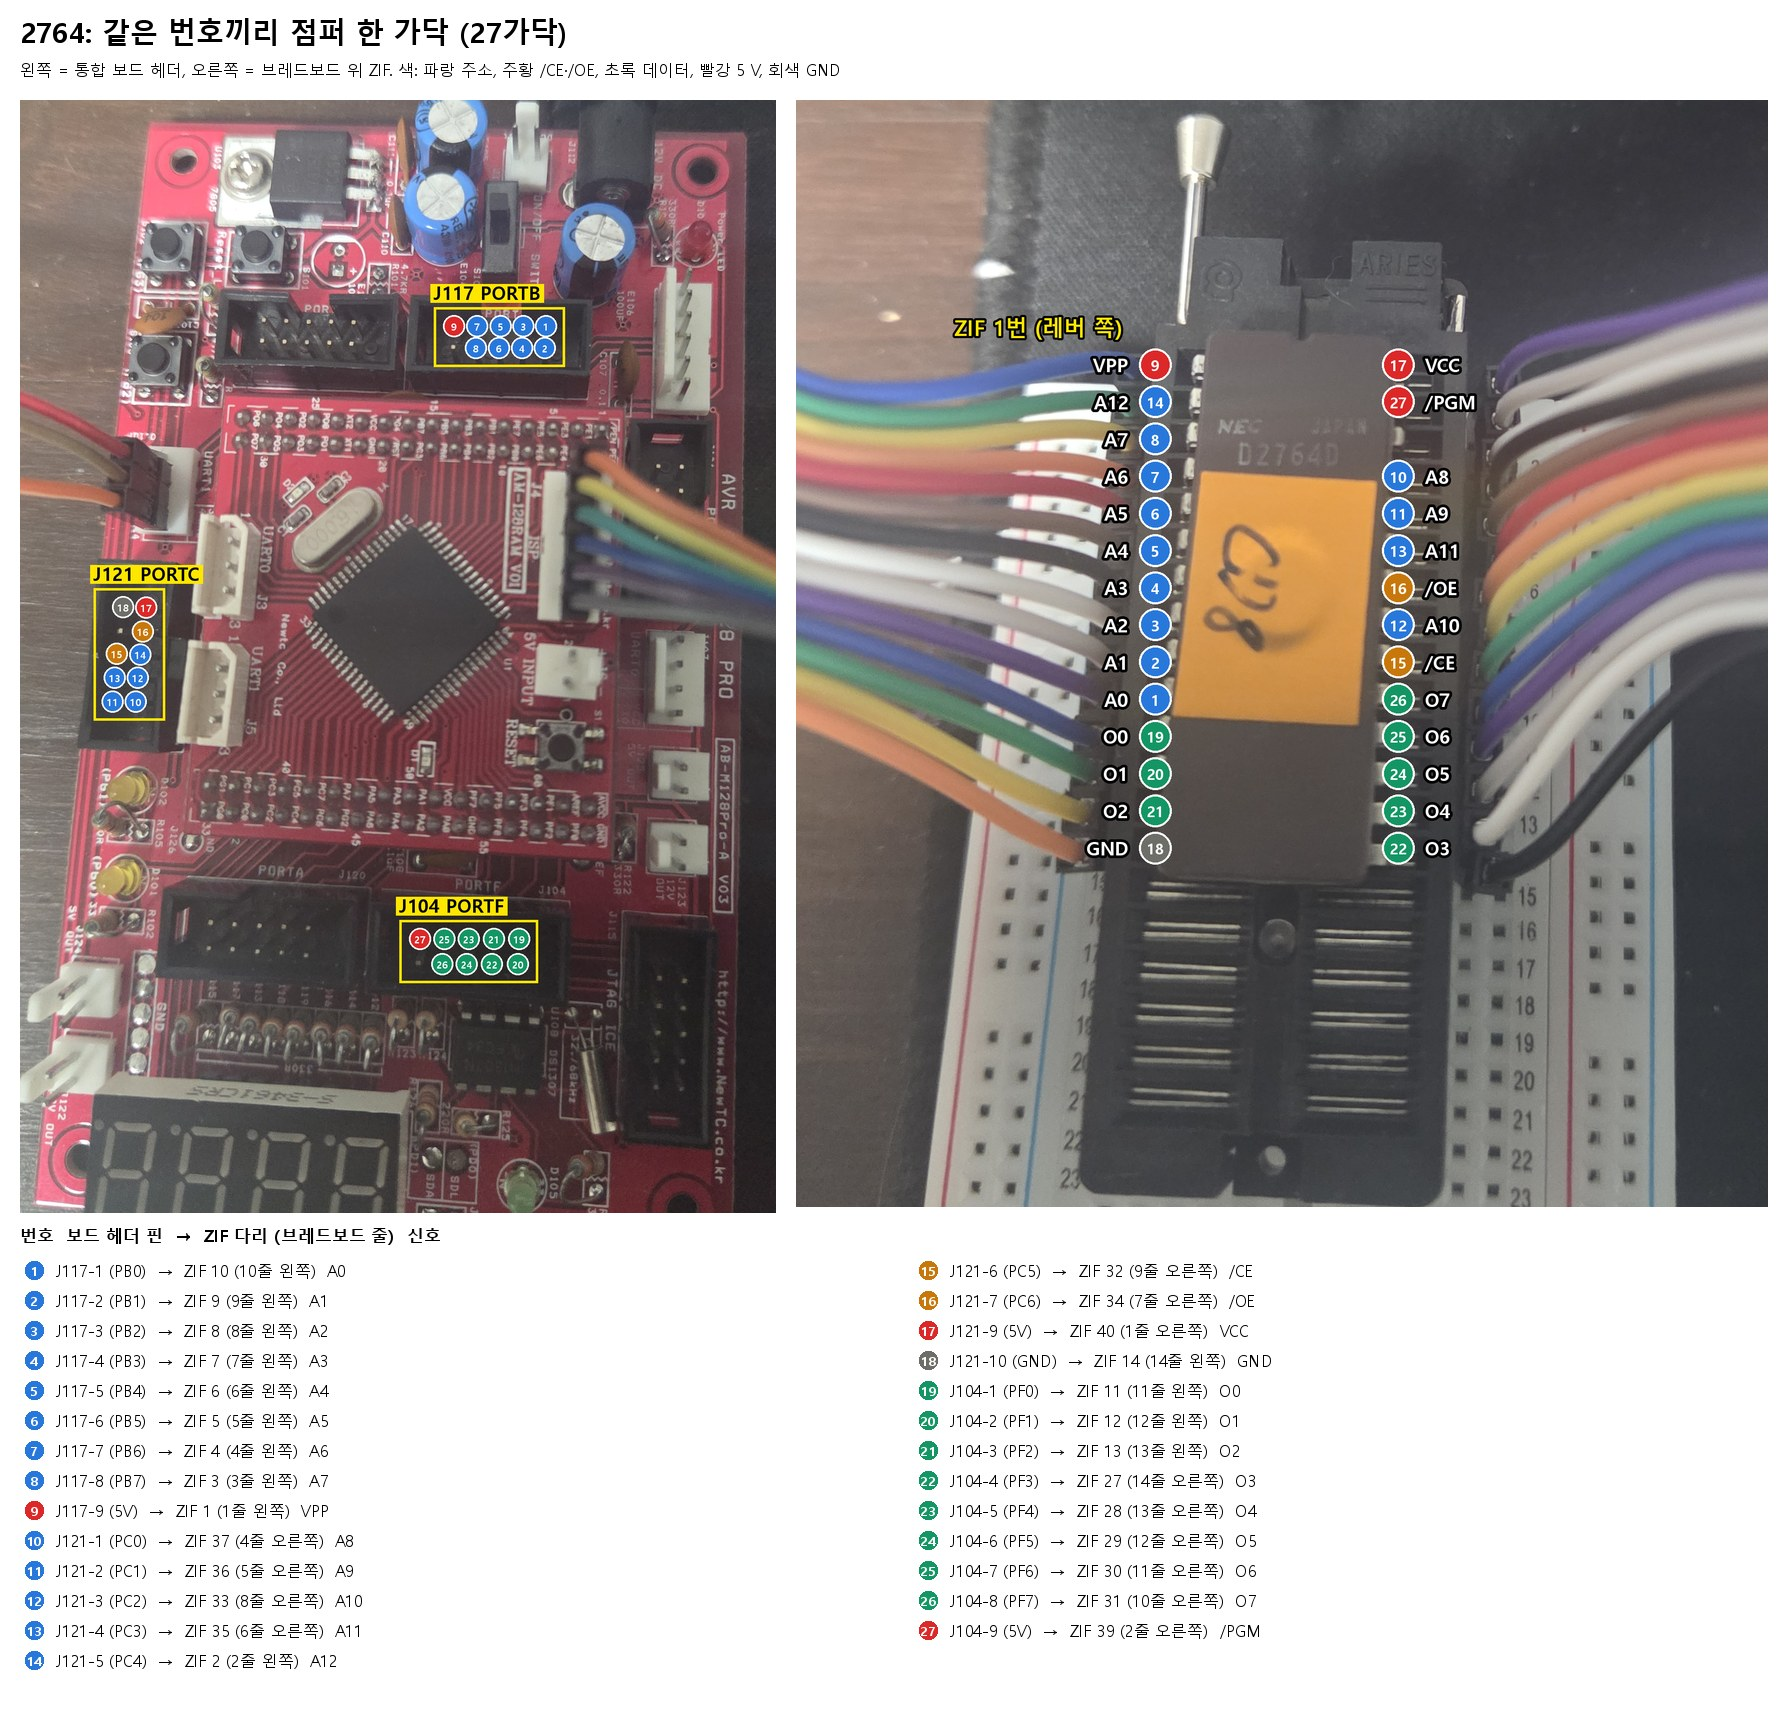
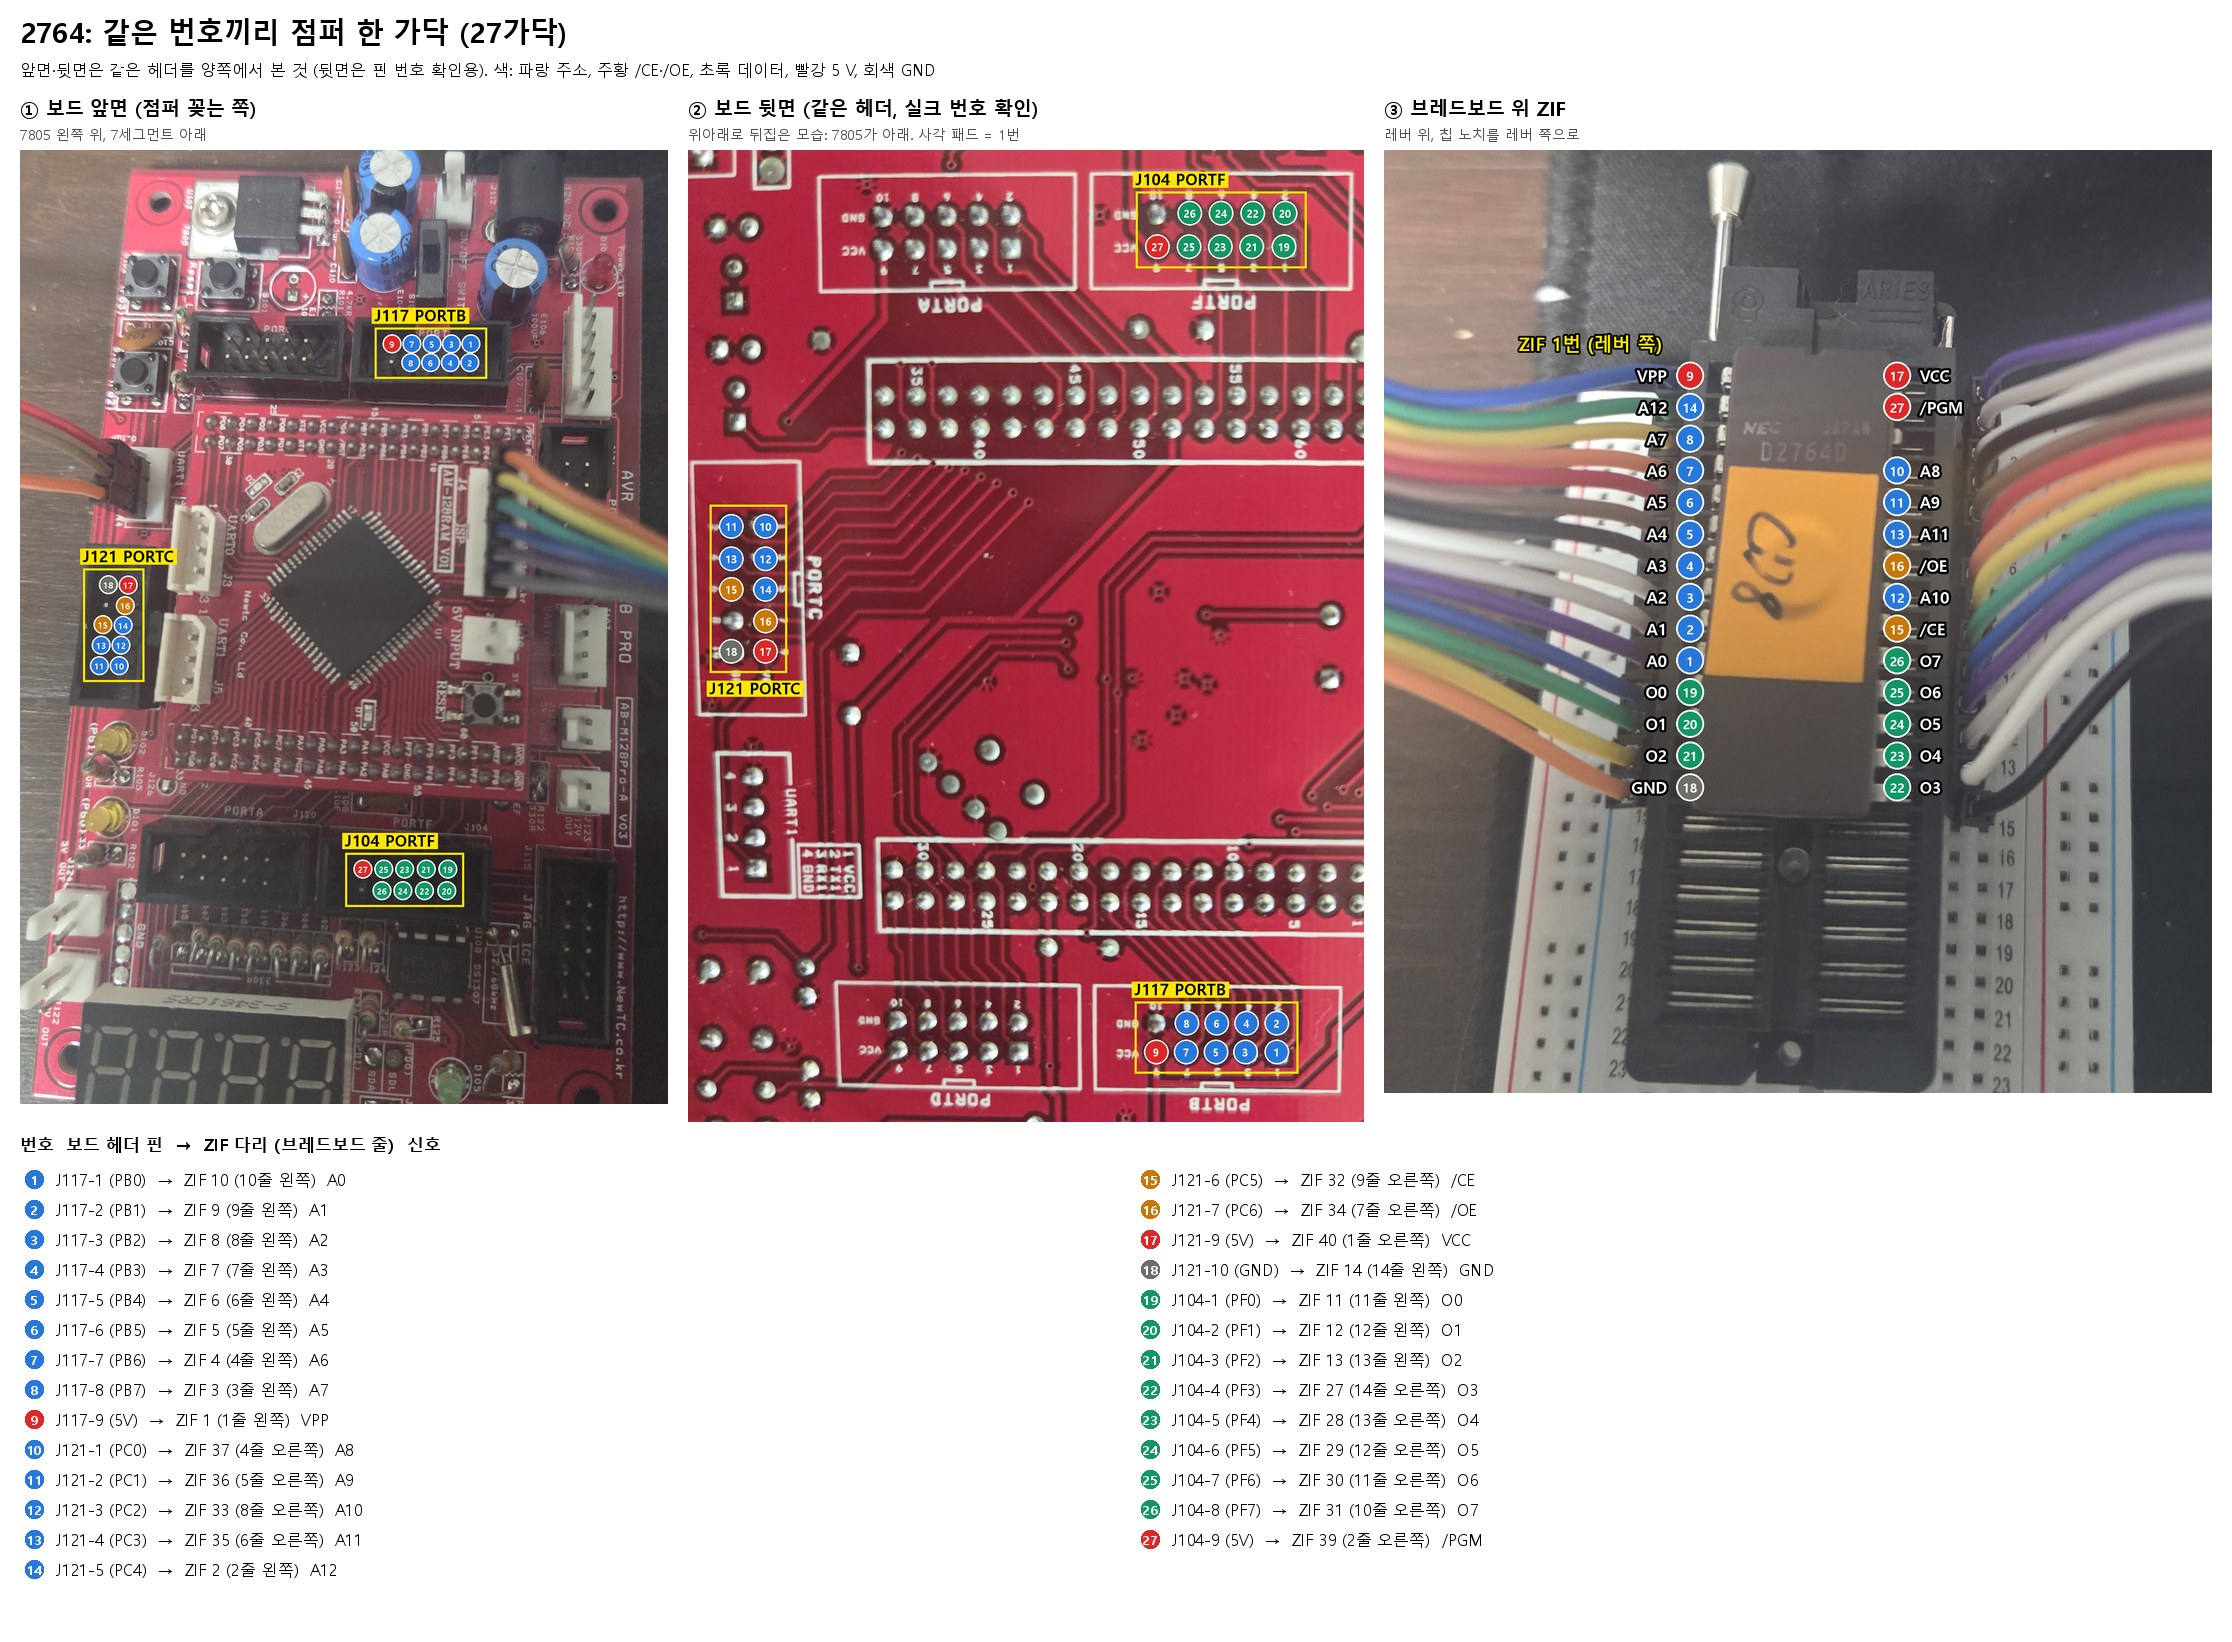
Show the board back side in the photo wiring diagrams.

diff --git a/HART/zif-wiring.html b/HART/zif-wiring.html
@@ -82,12 +82,12 @@ const W={
 ['J121',6,39,'/CE','c'],
 ['J104',1,1,'O1','d'],['J104',2,2,'O2','d'],['J104',3,3,'O3','d'],['J104',4,4,'O4','d'],['J104',5,5,'O5','d'],['J104',6,6,'O6','d'],['J104',7,7,'O7','d'],['J104',8,33,'O8','d']]}};
 const PHOTOS={
-'2764':[['wiring_photo_2764.jpg','실제 사진 결선도: 보드 헤더와 ZIF 다리에 같은 번호가 붙은 곳끼리 점퍼 한 가닥. 아래 표에 브레드보드 줄 번호도 있습니다(ZIF 1번 = 브레드보드 1번 줄).'],
+'2764':[['wiring_photo_2764.jpg','실제 사진 결선도(보드 앞면, 보드 뒷면, ZIF): 보드 헤더와 ZIF 다리에 같은 번호가 붙은 곳끼리 점퍼 한 가닥. 가운데 뒷면 사진은 같은 헤더를 납땜면에서 본 것이라 실크 핀 번호와 사각 패드(1번)로 번호를 확인할 수 있습니다. 아래 표에 브레드보드 줄 번호도 있습니다(ZIF 1번 = 브레드보드 1번 줄).'],
         ['rom_2764.jpg','U45, U46, U65, U70 위치와 1번 핀. 초록(U45, U46)은 노치 확인, 빨강(U65, U70)은 보드 규칙으로 추정이라 뽑기 전에 노치가 아래쪽인지 확인합니다.'],
         ['u45_u46_pins.jpg','U45, U46 전체 핀 번호: 앞면, 뒷면(납땜면, 좌우 반전), 뽑은 칩.']],
-'82S129':[['wiring_photo_82S129.jpg','실제 사진 결선도: 같은 번호끼리 점퍼 한 가닥. ZIF 사진의 칩은 2764라서 82S129가 들어갈 1–8줄을 점선으로 표시했습니다.'],
+'82S129':[['wiring_photo_82S129.jpg','실제 사진 결선도(보드 앞면, 보드 뒷면, ZIF): 같은 번호끼리 점퍼 한 가닥. 뒷면 사진에서 실크 핀 번호를 확인할 수 있습니다. ZIF 사진의 칩은 2764라서 82S129가 들어갈 1–8줄을 점선으로 표시했습니다.'],
           ['rom_82S129.jpg','U17, U18, U36, U38, U50, U51 위치와 1번 핀. 보드 규칙으로 추정이라 뽑기 전에 노치가 아래쪽인지 확인합니다. U17은 PROM인지 먼저 확인합니다.']],
-'82S123':[['wiring_photo_82S123.jpg','실제 사진 결선도: 같은 번호끼리 점퍼 한 가닥. ZIF 사진의 칩은 2764라서 82S123이 들어갈 1–8줄을 점선으로 표시했습니다.'],
+'82S123':[['wiring_photo_82S123.jpg','실제 사진 결선도(보드 앞면, 보드 뒷면, ZIF): 같은 번호끼리 점퍼 한 가닥. 뒷면 사진에서 실크 핀 번호를 확인할 수 있습니다. ZIF 사진의 칩은 2764라서 82S123이 들어갈 1–8줄을 점선으로 표시했습니다.'],
           ['rom_82S123.jpg','U5 위치와 1번 핀. 보드 규칙으로 추정이라 뽑기 전에 노치가 아래쪽인지 확인합니다.']]};
 function showPhotos(chip){
   const box=document.getElementById('photos');box.innerHTML='';

diff --git a/HART/tools/make_wiring_photos.py b/HART/tools/make_wiring_photos.py
@@ -3,7 +3,8 @@
 사용 (ROMReader 저장소 루트에서):
     python HART/tools/make_wiring_photos.py HART
 
-입력: photo/20261121_222148.jpg (결합 보드), photo/20261121_222138.jpg (브레드보드 위 ZIF + 2764)
+입력: photo/20261121_222148.jpg (결합 보드 앞면), photo/20261121_113651.jpg (베이스 뒷면),
+      photo/20261121_222138.jpg (브레드보드 위 ZIF + 2764)
 출력: HART/wiring_photo_2764.jpg, wiring_photo_82S129.jpg, wiring_photo_82S123.jpg
 
 같은 번호 배지끼리 점퍼 한 가닥으로 잇습니다. 헤더 핀 위치는 README 2.1절 방향(사진 판독)으로,
@@ -64,6 +65,21 @@ HDR = {
                                 2: (385, 267), 4: (323, 267), 6: (263, 267), 8: (205, 267), 10: (148, 267)}),
 }
 
+# 뒷면 사진(photo/20261121_113651.jpg, 보드를 위아래로 뒤집어 7805가 아래) 헤더 핀 좌표.
+# 실크 번호와 사각 패드(1번)에서 직접 읽음. 앞면과 위아래만 바뀌고 좌우는 같음.
+BHDR = {
+    # PORTB: 아래 줄 오른쪽→왼쪽 1,3,5,7,9 / 위 줄 2,4,6,8,10
+    "J117": {1: (1657, 2885), 3: (1570, 2885), 5: (1488, 2885), 7: (1405, 2885), 9: (1322, 2885),
+             2: (1657, 2805), 4: (1573, 2805), 6: (1490, 2805), 8: (1407, 2805), 10: (1325, 2805)},
+    # PORTC: 오른쪽 열 위→아래 1,3,5,7,9 / 왼쪽 열 2,4,6,8,10
+    "J121": {1: (235, 1425), 3: (235, 1515), 5: (235, 1600), 7: (235, 1688), 9: (235, 1772),
+             2: (140, 1425), 4: (140, 1515), 6: (140, 1600), 8: (140, 1688), 10: (140, 1772)},
+    # PORTF: 아래 줄 오른쪽→왼쪽 1,3,5,7,9 / 위 줄 2,4,6,8,10
+    "J104": {1: (1677, 648), 3: (1587, 648), 5: (1500, 648), 7: (1413, 648), 9: (1325, 648),
+             2: (1680, 555), 4: (1590, 555), 6: (1502, 555), 8: (1415, 555), 10: (1325, 555)},
+}
+BACK = "photo/20261121_113651.jpg"
+
 # ZIF 사진(원본 픽셀): 칩 1번 = (965, 1940), 14번 = (965, 2835). 오른쪽 줄 x = 1415.
 ZX_L, ZX_R, ZY1, ZP = 965, 1415, 1940, (2835 - 1940) / 13
 def zif_xy(z):
@@ -77,26 +93,35 @@ def badge(d, c, num, col, r=26, sz=24):
 
 
 board = ImageOps.exif_transpose(Image.open(BOARD)).convert("RGB")
+backp = ImageOps.exif_transpose(Image.open(BACK)).convert("RGB")
 zifp = ImageOps.exif_transpose(Image.open(ZIFP)).convert("RGB")
+LAB = {"J117": "PORTB", "J121": "PORTC", "J104": "PORTF"}
+
+
+def mark_headers(img, hdr, wires, pad, r, sz, lab_below=()):
+    """헤더 테두리와 이름, 점퍼 번호 배지를 그린 사본을 돌려줌."""
+    b = img.copy()
+    d = ImageDraw.Draw(b)
+    for name, pts in hdr.items():
+        xs = [p[0] for p in pts.values()]; ys = [p[1] for p in pts.values()]
+        d.rectangle((min(xs) - pad, min(ys) - pad, max(xs) + pad, max(ys) + pad), outline=(255, 230, 0), width=6)
+        lab = f"{name} {LAB[name]}"
+        ly = max(ys) + pad + 12 if name in lab_below else min(ys) - pad - 65
+        tb = d.textbbox((min(xs) - pad, ly), lab, font=font(44))
+        d.rectangle((tb[0] - 8, tb[1] - 6, tb[2] + 8, tb[3] + 6), fill=(255, 230, 0))
+        d.text((min(xs) - pad, ly), lab, font=font(44), fill=BLK)
+    for i, (h, p, z, sig, k) in enumerate(wires, 1):
+        badge(d, hdr[h][p], i, COL[k], r=r, sz=sz)
+    return b
+
 
 for chip, (rows, wires) in W.items():
-    # 보드
-    b = board.copy()
-    d = ImageDraw.Draw(b)
-    for name, pts in HDR.items():
-        xs = [p[0] for p in pts.values()]; ys = [p[1] for p in pts.values()]
-        d.rectangle((min(xs) - 45, min(ys) - 45, max(xs) + 45, max(ys) + 45), outline=(255, 230, 0), width=6)
-        lab = f"{name} {({'J117': 'PORTB', 'J121': 'PORTC', 'J104': 'PORTF'})[name]}"
-        lx, ly = (min(xs) - 45, min(ys) - 110) if name != "J121" else (min(xs) - 45, min(ys) - 110)
-        tb = d.textbbox((lx, ly), lab, font=font(44))
-        d.rectangle((tb[0] - 8, tb[1] - 6, tb[2] + 8, tb[3] + 6), fill=(255, 230, 0))
-        d.text((lx, ly), lab, font=font(44), fill=BLK)
-        for p in (1, 9, 10):
-            pass
-    for i, (h, p, z, sig, k) in enumerate(wires, 1):
-        badge(d, HDR[h][p], i, COL[k])
-    bc = b.crop((450, 1050, 2250, 3700))
-    bc = bc.resize((int(bc.width * 0.42), int(bc.height * 0.42)), Image.LANCZOS)
+    # 보드 앞면
+    bc = mark_headers(board, HDR, wires, 45, 26, 24).crop((450, 1050, 2250, 3700))
+    bc = bc.resize((int(bc.width * 0.36), int(bc.height * 0.36)), Image.LANCZOS)
+    # 보드 뒷면 (헤더 핀이 납땜된 쪽, 실크 번호 확인용)
+    kc = mark_headers(backp, BHDR, wires, 60, 34, 30, lab_below=("J121",)).crop((20, 380, 1900, 3080))
+    kc = kc.resize((int(kc.width * 0.36), int(kc.height * 0.36)), Image.LANCZOS)
 
     # ZIF
     zc = zifp.copy()
@@ -116,22 +141,31 @@ for chip, (rows, wires) in W.items():
     x1, y1 = zif_xy(1)
     d.text((x1 - 60, y1 - 70), "ZIF 1번 (레버 쪽)", font=font(40), fill=(255, 230, 0), anchor="rm", stroke_width=4, stroke_fill=BLK)
     zcc = zc.crop((300, 1450, 2100, 3500))
-    zcc = zcc.resize((int(zcc.width * 0.54), int(zcc.height * 0.54)), Image.LANCZOS)
+    zcc = zcc.resize((int(zcc.width * 0.46), int(zcc.height * 0.46)), Image.LANCZOS)
 
     # 표
     lines = [(i, h, p, z, sig, k) for i, (h, p, z, sig, k) in enumerate(wires, 1)]
     col_h = 30
     tbl_h = 70 + col_h * ((len(lines) + 1) // 2) + 20
-    Wd = bc.width + zcc.width + 60
-    Ht = 110 + max(bc.height, zcc.height) + tbl_h
+    panels = [(bc, "① 보드 앞면 (점퍼 꽂는 쪽)", "7805 왼쪽 위, 7세그먼트 아래"),
+              (kc, "② 보드 뒷면 (같은 헤더, 실크 번호 확인)", "위아래로 뒤집은 모습: 7805가 아래. 사각 패드 = 1번"),
+              (zcc, "③ 브레드보드 위 ZIF", "레버 위, 칩 노치를 레버 쪽으로")]
+    Wd = sum(p[0].width for p in panels) + 20 * (len(panels) + 1)
+    ph = max(p[0].height for p in panels)
+    Ht = 160 + ph + tbl_h
     cv = Image.new("RGB", (Wd, Ht), WHITE)
     d = ImageDraw.Draw(cv)
     d.text((20, 12), f"{chip}: 같은 번호끼리 점퍼 한 가닥 ({len(wires)}가닥)", font=font(28), fill=BLK)
-    d.text((20, 58), "왼쪽 = 통합 보드 헤더, 오른쪽 = 브레드보드 위 ZIF. 색: 파랑 주소, 주황 /CE·/OE, 초록 데이터, 빨강 5 V, 회색 GND",
+    d.text((20, 58), "앞면·뒷면은 같은 헤더를 양쪽에서 본 것 (뒷면은 핀 번호 확인용). "
+           "색: 파랑 주소, 주황 /CE·/OE, 초록 데이터, 빨강 5 V, 회색 GND",
            font=font(16, False), fill=BLK)
-    cv.paste(bc, (20, 100))
-    cv.paste(zcc, (bc.width + 40, 100))
-    ty = 110 + max(bc.height, zcc.height)
+    x = 20
+    for im, t1, t2 in panels:
+        d.text((x, 95), t1, font=font(19), fill=BLK)
+        d.text((x, 124), t2, font=font(14, False), fill=(80, 80, 80))
+        cv.paste(im, (x, 150))
+        x += im.width + 20
+    ty = 160 + ph
     d.text((20, ty), "번호  보드 헤더 핀  →  ZIF 다리 (브레드보드 줄)  신호", font=font(17), fill=BLK)
     half = (len(lines) + 1) // 2
     for j, (i, h, p, z, sig, k) in enumerate(lines):
